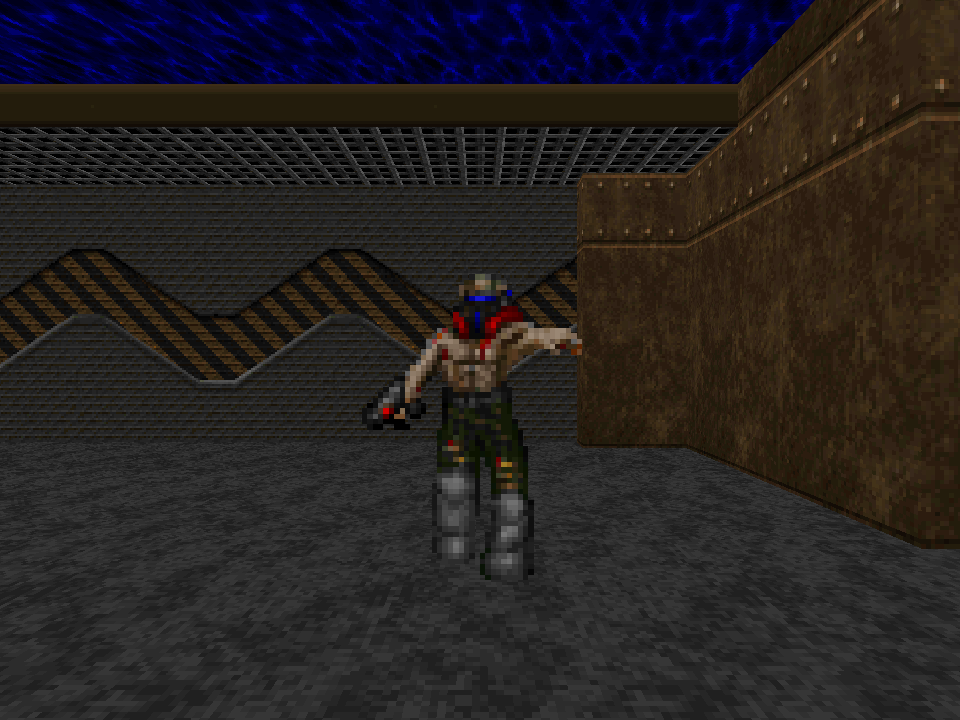
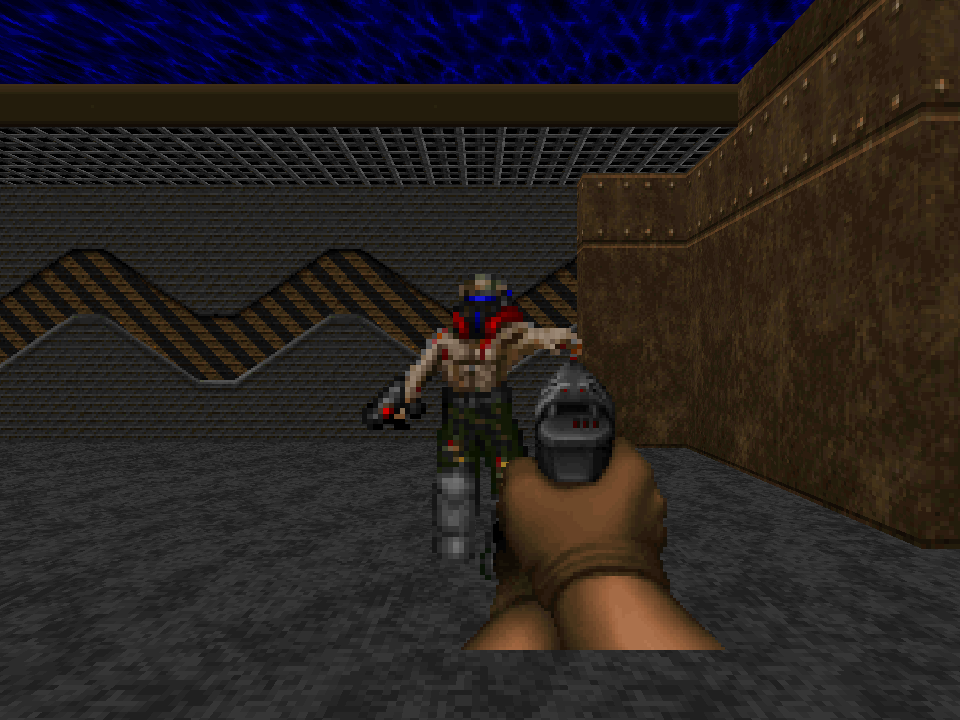
Publish silicon site

Changed region(s): [[0.4688, 0.4889, 0.75, 0.9167]]

diff --git a/silicon/docs.html b/silicon/docs.html
@@ -11,4 +11,4 @@ cargo run --release -p silicon-cli -- run spirv_cube
 cargo run --release -p silicon-cli -- inspect-shader assets/shaders/textured.frag.spv
 cargo run --release -p silicon-cli -- render-shaders assets/shaders/textured.vert.spv assets/shaders/textured.frag.spv --output output/glsl.png</code></pre></div><p><a href="docs/spirv.md">Exact SPIR-V subset, bindings, limits and reproduction →</a></p><h2 id="debug">04 / Explain a pixel</h2><p>The debugger reports covering primitives, barycentrics, varyings, depth comparisons and output color. The SIR path additionally traces executed instructions and texture samples for fragments that pass the fixed-function tests.</p><div class="code"><button class="copy" aria-label="Copy pixel debug command">Copy</button><pre><code>cargo run --release -p silicon-cli -- debug-pixel spirv_showcase --pixel 480,320</code></pre></div><h2 id="performance">05 / Measure the renderer</h2><p>Scalar rendering is the reference. Optional NEON/AVX2 evaluates four coverage lanes; NEON/SSE executes recorded SIR fragment shaders in masked groups of four. Vertex shaders and native Rust closures remain scalar. Parallel workers own disjoint horizontal bands with local 16×16 tiles; geometry setup repeats per band.</p><div class="code"><button class="copy" aria-label="Copy benchmark commands">Copy</button><pre><code>cargo run --release -p silicon-cli -- benchmark showcase --frames 30 --backend scalar --threads 1
 cargo run --release -p silicon-cli -- benchmark spirv_showcase --frames 30 --backend simd --threads 4 --report output/frames.json
-cargo run --release -p silicon-cli -- profile showcase</code></pre></div><p>Benchmarks report measured median, p95, render throughput, shaded pixels and submitted triangles. Stage timings accumulate worker work; they can exceed elapsed wall time. PNG encoding and window presentation are excluded from the render benchmark. Host load affects results. JSON reports retain chronological frame times, actual shader packet occupancy and executed instruction/sample/discard counts. Vertex work repeated by bands contributes to executed instruction counts; submitted geometry remains counted once. <a href="docs/simd.md">Read SIMD execution and mask checks →</a></p><h2 id="compat">06 / Vulkan-like Rust subset</h2><p><code>silicon::vulkan_like</code> provides one software instance/device, typed vertex/index/uniform buffers, RGBA8 images, SPIR-V pipelines, descriptor-like bindings, an offscreen render pass and synchronous indexed draws. It writes the CPU framebuffer directly. This is a Rust adapter, not Vulkan's loader, ABI, or a conformant driver. <a href="docs/vulkan-like.md">Read the subset contract →</a></p><p><img src="assets/screenshots/vulkan_like_triangle.png" alt="White textured triangle produced by the Vulkan-like Rust subset" width="320" height="240"></p><h2 id="thirdparty">07 / Khronos Vulkan sample</h2><p>Phase 69 adapts KhronosGroup Vulkan-Samples <code>hello_triangle</code> at a pinned upstream commit. The original three vertices, RGB colors, shaders and non-indexed draw run through SILICON after a documented vertex-layout adjustment. <a href="docs/third-party-demo.md">Read the source, license, and adaptation notes →</a></p><p><img src="assets/screenshots/khronos_hello_triangle.png" alt="Khronos hello triangle with interpolated red, green, and blue rendered by SILICON" width="320" height="240"></p><h2 id="doom">08 / DOOM WAD gameplay slice</h2><p>Phase 70 renders Freedoom E1M1 map geometry and all 29 cutout enemy billboards from the WAD: 4,870 triangles across 170 SILICON draws in the checked-in capture. WAD nodes locate things in subsectors. The interactive prototype adds first-person movement, collision, hitscan shooting, health and ammunition, plus pursuing melee enemies. BSP visibility, masked walls and full Doom rules remain. The WAD stays external. <a href="docs/freedoom.md">Read the source, screenshot, license and limits →</a></p><p><img src="assets/screenshots/freedoom_e1m1.png" alt="Static Freedoom E1M1 architecture from the player start; enemies are outside this camera view" width="480" height="360"></p><p><img src="assets/screenshots/freedoom_e1m1_enemy.png" alt="Freedoom former-human enemy billboard rendered through SILICON from a test capture view" width="480" height="360"></p><p><small>Sprite check from the same WAD with only the player start moved into the enemy corridor.</small></p><h2 id="limits">09 / Current boundaries</h2><p>SPIR-V support is a strict graphics subset. General SPIR-V/GLSL compatibility, WGSL, conformant Vulkan/OpenGL drivers, compute, JIT and full-game compatibility are not implemented. Phase 70 is an experimental E1M1 gameplay slice. MSAA is supported by the renderer. The small Vulkan-like Rust subset is not a Vulkan loader or binary interface. No existing software rasterizer generates the scene. This is a research renderer, not a conformant graphics driver.</p><p>External sizes, indices, shader registers, resource bindings and command sequences are checked. Captures have a 64 MiB input limit. The project is not a hardened hostile-workload sandbox. SIMD unsafe code is isolated; parallel framebuffer memory belongs to individual workers.</p><p><a href="docs/security.md">Input and memory boundaries →</a><br><a href="docs/roadmap.md">Working milestones and future research →</a></p></article></main><footer><a href="./">SILICON / SOFTWARE GRAPHICS RESEARCH</a><a href="https://github.com/OthmaneBlial/silicon/blob/main/LICENSE">Apache-2.0</a></footer><div class="sr-only" id="copy-status" role="status"></div></body></html>
+cargo run --release -p silicon-cli -- profile showcase</code></pre></div><p>Benchmarks report measured median, p95, render throughput, shaded pixels and submitted triangles. Stage timings accumulate worker work; they can exceed elapsed wall time. PNG encoding and window presentation are excluded from the render benchmark. Host load affects results. JSON reports retain chronological frame times, actual shader packet occupancy and executed instruction/sample/discard counts. Vertex work repeated by bands contributes to executed instruction counts; submitted geometry remains counted once. <a href="docs/simd.md">Read SIMD execution and mask checks →</a></p><h2 id="compat">06 / Vulkan-like Rust subset</h2><p><code>silicon::vulkan_like</code> provides one software instance/device, typed vertex/index/uniform buffers, RGBA8 images, SPIR-V pipelines, descriptor-like bindings, an offscreen render pass and synchronous indexed draws. It writes the CPU framebuffer directly. This is a Rust adapter, not Vulkan's loader, ABI, or a conformant driver. <a href="docs/vulkan-like.md">Read the subset contract →</a></p><p><img src="assets/screenshots/vulkan_like_triangle.png" alt="White textured triangle produced by the Vulkan-like Rust subset" width="320" height="240"></p><h2 id="thirdparty">07 / Khronos Vulkan sample</h2><p>Phase 69 adapts KhronosGroup Vulkan-Samples <code>hello_triangle</code> at a pinned upstream commit. The original three vertices, RGB colors, shaders and non-indexed draw run through SILICON after a documented vertex-layout adjustment. <a href="docs/third-party-demo.md">Read the source, license, and adaptation notes →</a></p><p><img src="assets/screenshots/khronos_hello_triangle.png" alt="Khronos hello triangle with interpolated red, green, and blue rendered by SILICON" width="320" height="240"></p><h2 id="doom">08 / DOOM WAD gameplay slice</h2><p>Phase 70 renders Freedoom E1M1 map geometry, all 29 cutout enemy billboards, and the WAD pistol through SILICON: 4,872 triangles across 171 draws in the checked-in capture. WAD nodes locate things in subsectors. The interactive prototype adds first-person movement, collision, hitscan shooting, health and ammunition, plus pursuing melee enemies. The pistol uses idle and brief fire poses. BSP visibility, masked walls and full Doom rules remain. The WAD stays external. <a href="docs/freedoom.md">Read the source, screenshot, license and limits →</a></p><p><img src="assets/screenshots/freedoom_e1m1.png" alt="Static Freedoom E1M1 architecture and pistol from the player start; enemies are outside this camera view" width="480" height="360"></p><p><img src="assets/screenshots/freedoom_e1m1_enemy.png" alt="Freedoom former-human enemy and pistol billboards rendered through SILICON from a test capture view" width="480" height="360"></p><p><small>Sprite check from the same WAD with only the player start moved into the enemy corridor.</small></p><h2 id="limits">09 / Current boundaries</h2><p>SPIR-V support is a strict graphics subset. General SPIR-V/GLSL compatibility, WGSL, conformant Vulkan/OpenGL drivers, compute, JIT and full-game compatibility are not implemented. Phase 70 is an experimental E1M1 gameplay slice. MSAA is supported by the renderer. The small Vulkan-like Rust subset is not a Vulkan loader or binary interface. No existing software rasterizer generates the scene. This is a research renderer, not a conformant graphics driver.</p><p>External sizes, indices, shader registers, resource bindings and command sequences are checked. Captures have a 64 MiB input limit. The project is not a hardened hostile-workload sandbox. SIMD unsafe code is isolated; parallel framebuffer memory belongs to individual workers.</p><p><a href="docs/security.md">Input and memory boundaries →</a><br><a href="docs/roadmap.md">Working milestones and future research →</a></p></article></main><footer><a href="./">SILICON / SOFTWARE GRAPHICS RESEARCH</a><a href="https://github.com/OthmaneBlial/silicon/blob/main/LICENSE">Apache-2.0</a></footer><div class="sr-only" id="copy-status" role="status"></div></body></html>

diff --git a/silicon/docs/freedoom.md b/silicon/docs/freedoom.md
@@ -33,26 +33,30 @@ classic `A1` sprite patches: former humans (20 health), shotgunners (30), imps
 fires a 20-damage hitscan with a 0.35-second cooldown and 200 shots. Enemies
 chase within 640 map units and deal 8 melee damage within 48 units, at most once
 every 0.85 seconds. The window title reports health, ammunition, kills, draw
-calls, and submitted triangles.
+calls, and submitted triangles. The WAD pistol's PISGA0 patch is the idle
+camera-aligned billboard; firing briefly uses its PISGC0 patch for 0.16 seconds.
+Both weapon poses use SILICON's cutout shader and draw pipeline.
 
 Freedoom 0.13.0 E1M1 has 29 normal-skill enemy placements. The sample parses
 the WAD node partition tree and follows its child references to locate each
-thing in a subsector and sector. The checked-in static capture contains 4,870
-submitted triangles across 170 SILICON draws: 4,812 map triangles plus 29
-two-triangle billboards. It shows the player start; enemies are outside that
-camera view. A temporary WAD with only its player start moved was used to
-visually check an enemy sprite; that test fixture is not included.
+thing in a subsector and sector. The checked-in static capture contains 4,872
+submitted triangles across 171 SILICON draws: 4,812 map triangles, 29
+two-triangle enemy billboards, and a two-triangle pistol billboard. It shows
+the player start and pistol; enemies are outside that camera view. A temporary
+WAD with only its player start moved was used to capture an enemy sprite in
+view; that test fixture is not included.
 
 This is a limited gameplay prototype, not Doom's complete player physics or
 game rules. Every BSP leaf is drawn; view-frustum traversal and BSP visibility
-culling, masked two-sided middle textures, animated or rotated sprites, ranged
-attacks, pickups, keys, exits, weapon animation, and sound remain unimplemented.
+culling, masked two-sided middle textures, animated or rotated enemy sprites,
+ranged attacks, pickups, keys, exits, full weapon animation beyond the brief
+idle/fire pose, and sound remain unimplemented.
 `F_SKY1` ceilings show the clear color. The checked-in
 [`E1M1 screenshot`](../assets/screenshots/freedoom_e1m1.png) was rendered from
 the unmodified release WAD. The WAD itself is not included. The release archive
[1 lines of base64/hex data omitted]
 
-![Freedoom former-human enemy billboard rendered through SILICON](../assets/screenshots/freedoom_e1m1_enemy.png)
+![Freedoom former-human enemy and pistol billboards rendered through SILICON](../assets/screenshots/freedoom_e1m1_enemy.png)
 
 *Sprite verification view from the same WAD with only the player start moved into the enemy corridor; the temporary WAD is not included.*
 

diff --git a/silicon/docs/roadmap.md b/silicon/docs/roadmap.md
@@ -36,7 +36,7 @@ long-term. This repository ships working stages and labels the remaining work.
 | C API (phase 67) | Version-1 shared library and header expose opaque device/resource/command handles, synchronous draw submission and RGBA8 readback; standalone C client renders a SPIR-V triangle |
 | Vulkan-like compatibility subset (phase 68) | Rust-only instance/device, typed buffers, RGBA8 images, SPIR-V pipelines, descriptor-like bindings, one offscreen render pass and synchronous queue; indexed textured triangle example. This is not Vulkan ABI, loader, or conformance support |
 | Third-party demo (phase 69) | Khronos Vulkan-Samples `hello_triangle` at a pinned upstream commit; adapted vertex layout, upstream SPIR-V fragment shader, CPU framebuffer output and a color-interpolation integration test |
-| DOOM (phase 70, in progress) | Reads Freedoom 0.13.0 E1M1 and submits textured map geometry plus all 29 cutout enemy billboards through SILICON (4,870 triangles, 170 draws in the checked-in capture). WAD node data locate points in subsectors; the interactive prototype adds movement, basic collision, hitscan, health/ammo, and pursuing melee enemies. BSP visibility, masked textures, and full Doom rules remain. See [Freedoom checkpoint](freedoom.md) |
+| DOOM (phase 70, in progress) | Reads Freedoom 0.13.0 E1M1 and submits textured map geometry, 29 cutout enemy billboards, and a pistol billboard through SILICON (4,872 triangles, 171 draws in the checked-in capture). WAD node data locate points in subsectors; the interactive prototype adds movement, basic collision, hitscan, health/ammo, and pursuing melee enemies. BSP visibility, masked textures, and full Doom rules remain. See [Freedoom checkpoint](freedoom.md) |
 
 Next: JIT remains an advanced experiment; only consider it after more interpreter evidence. The
 current cube-map demo and anisotropic sampler use native Rust closures; SPIR-V
